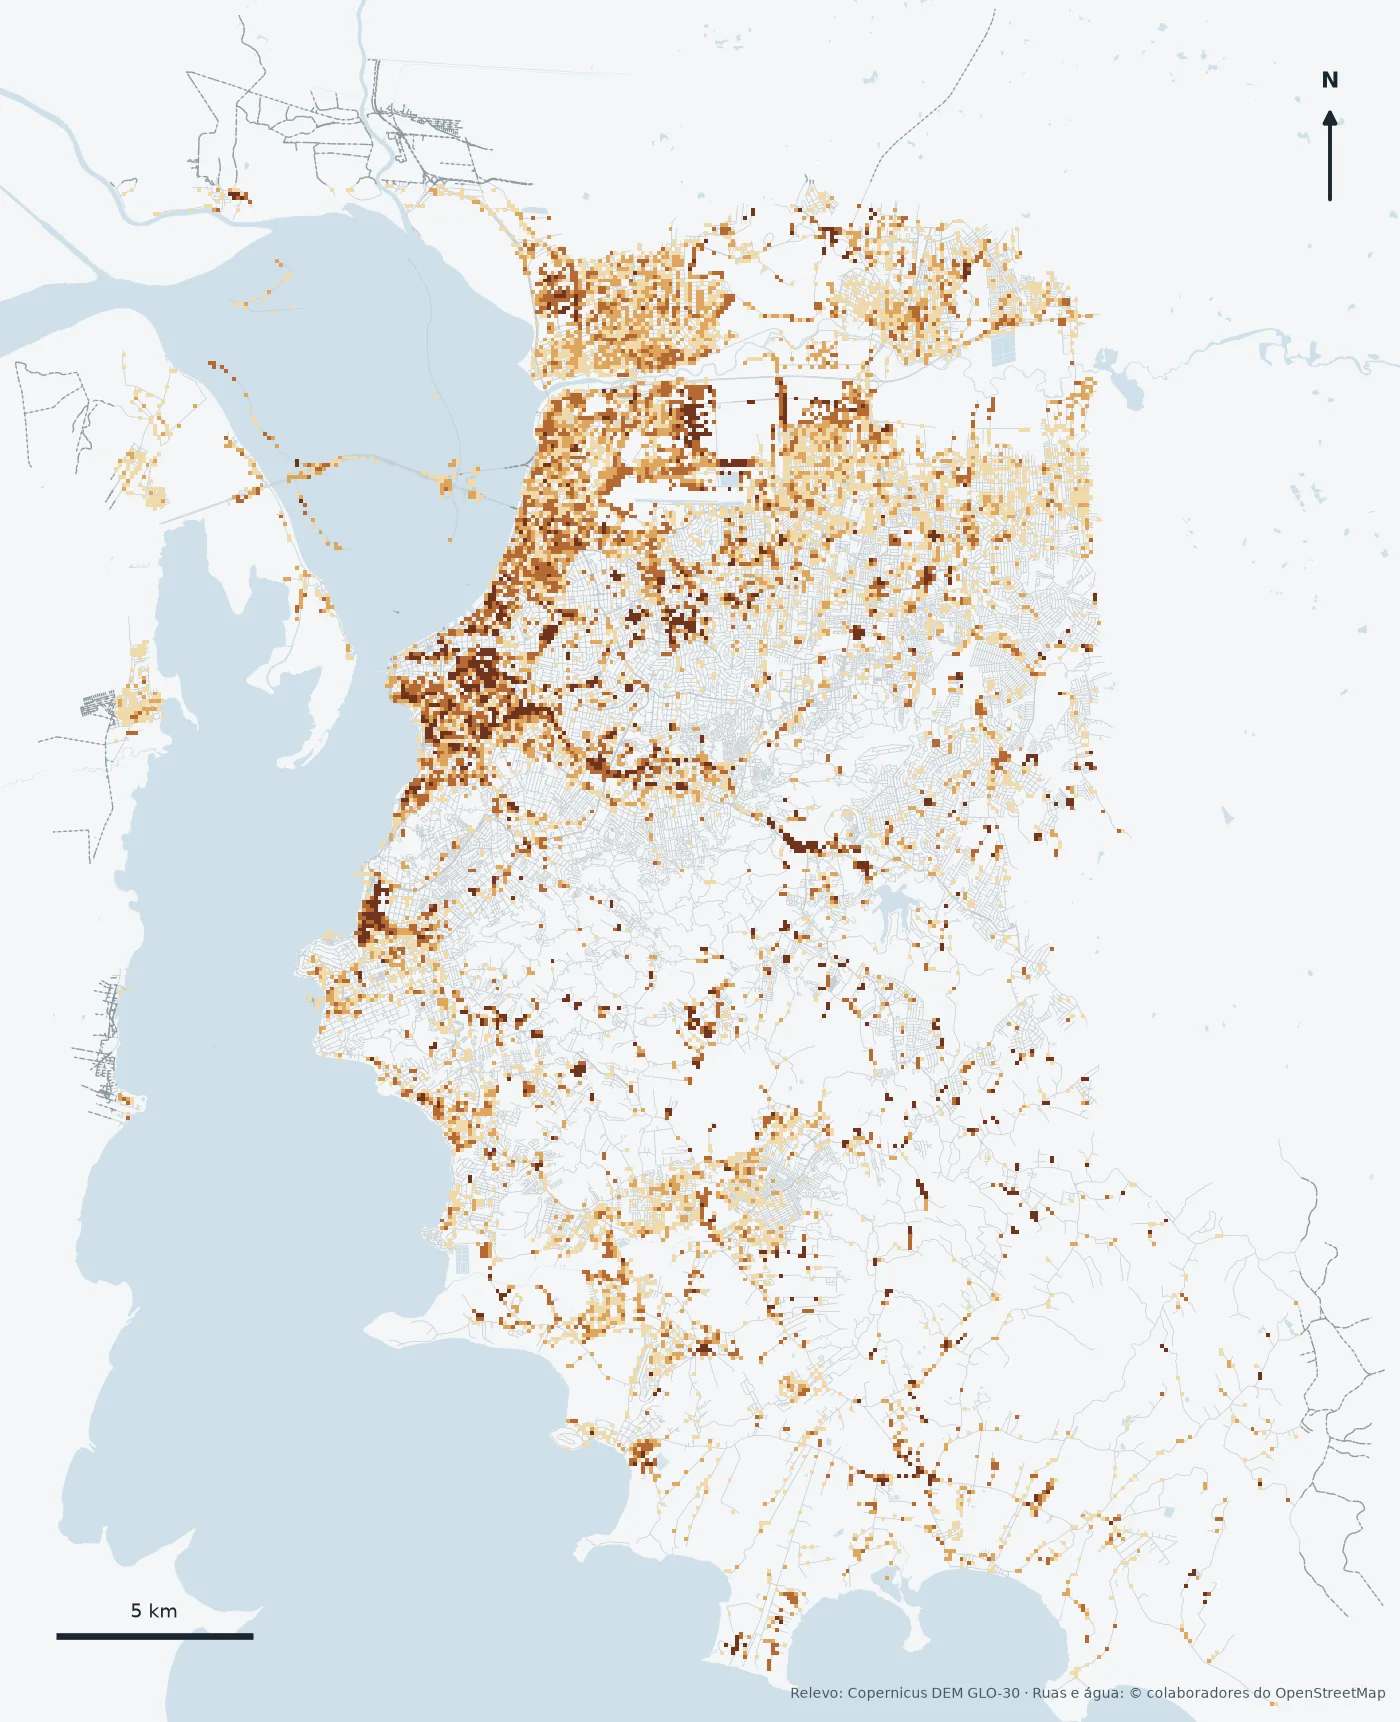
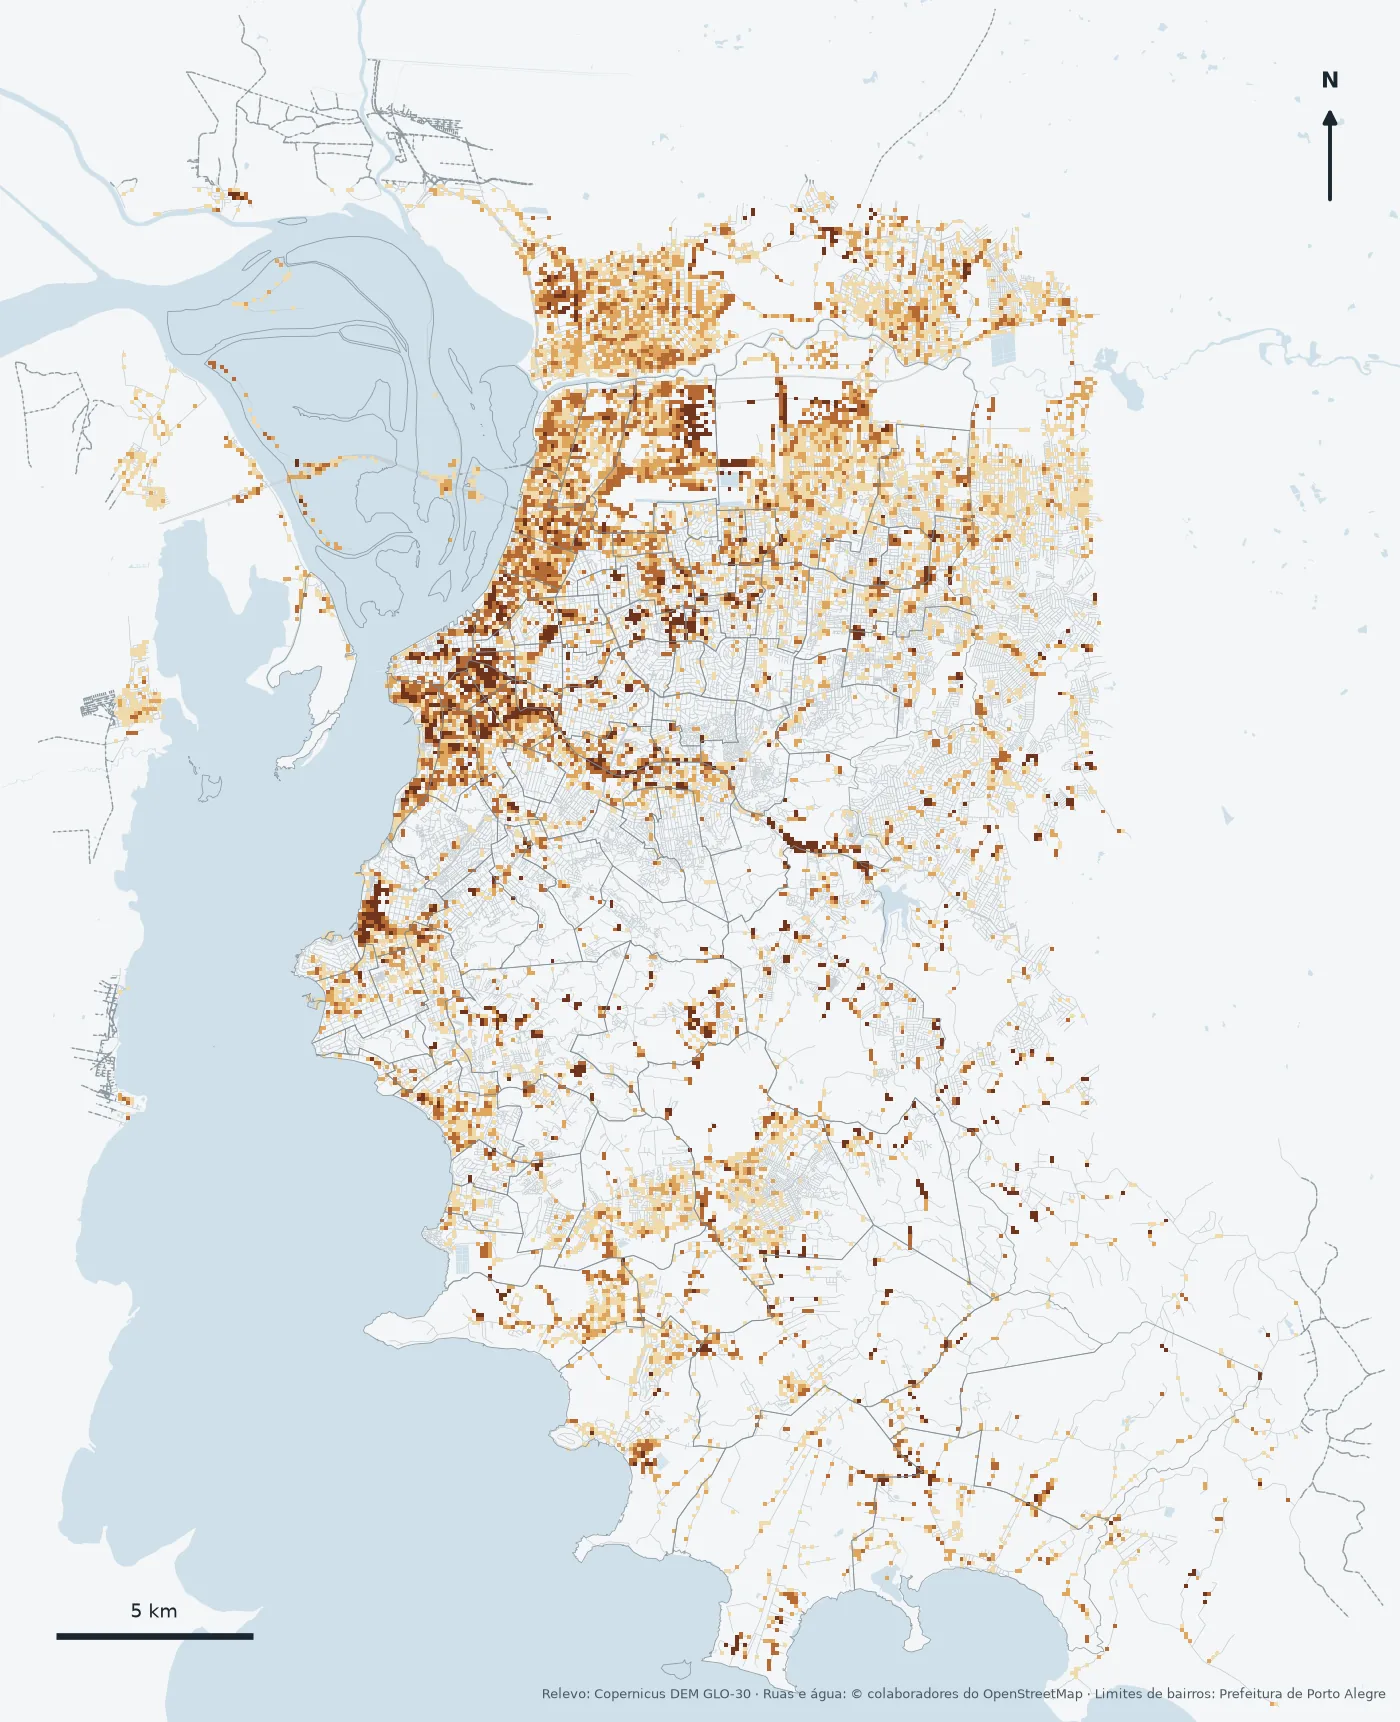
refactor(mapa-manchas): base comum para os mapas das dimensões e limites de bairros na dimensão C
Extrai a grade, o enquadramento e o desenho para tools/manchas_base.py, de modo que os quatro mapas usem a mesma grade e o mesmo enquadramento e a troca entre dimensões mantenha cada lugar no mesmo ponto. O mapa da dimensão C passa a trazer os limites dos 94 bairros como linhas de contexto; as faixas, os números e o cálculo não mudam. O teste deixa de proibir bairros, mantendo a proibição da Profill e dos registros de alagamento neste gerador.

diff --git a/tools/gerar_mapa_manchas.py b/tools/gerar_mapa_manchas.py
@@ -2,29 +2,31 @@
 
     PYTHONPATH=src .venv/bin/python tools/gerar_mapa_manchas.py
 
-Só reaproveita resultados que já existem (altura que o preenchimento de depressões soma ao relevo, por trecho de rua); nada reexecuta o motor.
-Fontes do desenho: relevo Copernicus DEM GLO-30 (via o indicador por trecho), ruas e água do OpenStreetMap. NÃO usa a Profill (nem A nem B), os limites de bairros
-da Prefeitura nem as coordenadas de alagamentos: por isso a imagem pode ser publicada com atribuição. Cada mancha é o MÁXIMO da altura entre os trechos que caem
+Dimensão C. Só reaproveita resultados que já existem (altura que o preenchimento de depressões soma ao relevo, por trecho de rua); nada reexecuta o motor.
+Fontes do desenho: relevo Copernicus DEM GLO-30 (via o indicador por trecho), ruas e água do OpenStreetMap. Não usa a Profill (as dimensões A e B têm gerador próprio, ``gerar_mapas_dimensoes.py``) nem as coordenadas de alagamentos; os limites de bairros da Prefeitura
+entram só como linhas de contexto (base_legal_dados.md). Cada mancha é o MÁXIMO da altura entre os trechos que caem
 em uma célula de 100 m; escuro = depressão mais profunda estimada, o que não é ocorrência nem risco de alagamento.
 Escreve: static/inicio/img/estudo/mapa-propensao.webp e static/data/mapa_manchas_poa.json (números e faixas da legenda, usados pela landing e conferidos por teste).
 """
 from __future__ import annotations
 
 import json
+import sys
 from pathlib import Path
 
 import numpy as np
 import pandas as pd
 
+sys.path.insert(0, str(Path(__file__).resolve().parent))
+from manchas_base import Quadro, carregar_agua, carregar_bairros, carregar_rede, desenhar  # noqa: E402
+
 RAIZ = Path(__file__).resolve().parents[1]
 ESTATICO = RAIZ / "src/flooding_mapping/app/static"
 IMG = ESTATICO / "inicio/img/estudo/mapa-propensao.webp"
 DADOS = ESTATICO / "data/mapa_manchas_poa.json"
-CELULA_M = 100
-FAIXAS_M = [0.0, 0.5, 1.0, 2.0, np.inf]                       # limites da legenda, em metros
+CELULA_M = 100                                                # igual a manchas_base.CELULA_M
+FAIXAS_M = [0.0, 0.5, 1.0, 2.0, 1e9]                          # limites da legenda, em metros
 CORES = ["#f1d9a8", "#dfa356", "#b3622a", "#6a2a12"]          # claro a escuro (tons de terra, como o indicador topográfico do mapa interativo)
-LARGURA_PX = 1400
-FUNDO, AGUA, RUA, SEM_DADO = "#f4f6f7", "#cfe0ea", "#c3cbd0", "#8c99a1"
 
 
 def estatisticas(t: pd.DataFrame) -> dict:
@@ -36,85 +38,15 @@ def estatisticas(t: pd.DataFrame) -> dict:
             "altura_maxima_m": round(float(pos.max()), 2), "trechos_acima_de_8_m": int((pos > 8).sum())}
 
 
-def desenhar(t: pd.DataFrame, rede: pd.DataFrame, agua) -> tuple[int, int]:
-    import matplotlib
-
-    matplotlib.use("Agg")
-    import matplotlib.pyplot as plt
-    from matplotlib.collections import LineCollection
-    from matplotlib.colors import BoundaryNorm, ListedColormap
-    from pyproj import Transformer
-
-    tr = Transformer.from_crs("EPSG:4326", "EPSG:31982", always_xy=True)
-    x0, y0 = tr.transform(rede.lon0.to_numpy(), rede.lat0.to_numpy())
-    x1, y1 = tr.transform(rede.lon1.to_numpy(), rede.lat1.to_numpy())
-    h = rede[["segmento_id"]].merge(t[["segmento_id", "altura_de_preenchimento_max_m"]], on="segmento_id", how="left")["altura_de_preenchimento_max_m"].to_numpy()
-    xm, ym = (x0 + x1) / 2, (y0 + y1) / 2
-    xmin, xmax, ymin, ymax = xm.min() - 400, xm.max() + 400, ym.min() - 400, ym.max() + 400
-    nx, ny = int(np.ceil((xmax - xmin) / CELULA_M)), int(np.ceil((ymax - ymin) / CELULA_M))
-    grade = np.full((ny, nx), np.nan)
-    tem = np.isfinite(h)
-    ix, iy = ((xm[tem] - xmin) // CELULA_M).astype(int), ((ym[tem] - ymin) // CELULA_M).astype(int)
-    parcial = np.zeros((ny, nx))
-    np.maximum.at(parcial, (iy, ix), h[tem])
-    existe = np.zeros((ny, nx), dtype=bool)
-    existe[iy, ix] = True
-    grade[existe] = parcial[existe]                                  # máximo por célula; célula sem trecho com dado fica vazia
-    acima = np.ma.masked_where(~(grade > 0), grade)                  # só as células com depressão ganham cor
-
-    larg_in = LARGURA_PX / 200
-    alt_in = larg_in * (ymax - ymin) / (xmax - xmin)
-    fig, ax = plt.subplots(figsize=(larg_in, alt_in), dpi=200)
-    fig.patch.set_facecolor(FUNDO)
-    ax.set_facecolor(FUNDO)
-    if agua is not None:
-        for g in agua.to_crs("EPSG:31982").geometry:
-            for poly in getattr(g, "geoms", [g]):
-                if poly.geom_type == "Polygon":
-                    px, py = poly.exterior.xy
-                    ax.fill(px, py, color=AGUA, lw=0, zorder=1)
-    ax.add_collection(LineCollection(np.stack([np.c_[x0, y0], np.c_[x1, y1]], axis=1), colors=RUA, linewidths=0.25, zorder=2))
-    sd = ~tem
-    ax.add_collection(LineCollection(np.stack([np.c_[x0[sd], y0[sd]], np.c_[x1[sd], y1[sd]]], axis=1), colors=SEM_DADO, linewidths=0.5, linestyles=(0, (2, 2)), zorder=3))
-    cmap, norm = ListedColormap(CORES), BoundaryNorm([0.0, 0.5, 1.0, 2.0, 1e9], 4)
-    ax.imshow(acima, extent=(xmin, xmax, ymin, ymax), origin="lower", cmap=cmap, norm=norm, interpolation="nearest", zorder=4, alpha=0.95)
-    ax.set_xlim(xmin, xmax)
-    ax.set_ylim(ymin, ymax)
-    ax.set_aspect("equal")
-    ax.axis("off")
-    # escala gráfica de 5 km (a projeção é métrica) e seta do norte
-    bx, by = xmin + 0.04 * (xmax - xmin), ymin + 0.05 * (ymax - ymin)
-    ax.plot([bx, bx + 5000], [by, by], color="#1b2630", lw=2.4, solid_capstyle="butt", zorder=6)
-    ax.text(bx + 2500, by + 350, "5 km", ha="center", va="bottom", fontsize=7, color="#1b2630", zorder=6)
-    nxp, nyp = xmax - 0.05 * (xmax - xmin), ymax - 0.06 * (ymax - ymin)
-    ax.annotate("", xy=(nxp, nyp), xytext=(nxp, nyp - 2600), arrowprops=dict(arrowstyle="-|>", color="#1b2630", lw=1.4), zorder=6)
-    ax.text(nxp, nyp + 250, "N", ha="center", va="bottom", fontsize=8, color="#1b2630", fontweight="bold", zorder=6)
-    ax.text(xmax - 0.01 * (xmax - xmin), ymin + 0.012 * (ymax - ymin), "Relevo: Copernicus DEM GLO-30 · Ruas e água: © colaboradores do OpenStreetMap", ha="right", va="bottom", fontsize=5.2, color="#4a5963", zorder=6)
-    fig.subplots_adjust(0, 0, 1, 1)
-    tmp = IMG.with_suffix(".tmp.png")
-    fig.savefig(tmp, dpi=200, facecolor=FUNDO)
-    plt.close(fig)
-    from PIL import Image
-
-    im = Image.open(tmp).convert("RGB")
-    im.save(IMG, "WEBP", quality=82, method=6)
-    tmp.unlink()
-    return im.size
-
-
 def main() -> None:
     t = pd.read_parquet(RAIZ / "data/processed/fase3/trechos_nivel1_propensao_topografica.parquet")
-    rede = pd.read_parquet(RAIZ / "data/processed/rede_poa.parquet", columns=["segmento_id", "lon0", "lat0", "lon1", "lat1"])
-    agua = None
-    try:
-        import geopandas as gpd
-
-        agua = gpd.read_parquet(RAIZ / "data/interim/water.parquet")
-    except Exception as e:                                           # a água é só contexto: sem ela a imagem sai sem o fundo azul
-        print("água indisponível:", type(e).__name__)
-    w, h = desenhar(t, rede, agua)
+    rede = carregar_rede()
+    q = Quadro(rede)
+    h = q.valores_por_trecho(t, "altura_de_preenchimento_max_m")
+    w, h_px = desenhar(q, q.grade_maximo(h), FAIXAS_M, CORES, ~np.isfinite(h), carregar_agua(), carregar_bairros(), IMG, "Relevo: Copernicus DEM GLO-30")
+    h = h_px
     r = {"variavel": "altura que o preenchimento de depressões soma ao relevo (propensão topográfica à retenção, dimensão C), por trecho",
-         "fontes": "Copernicus DEM GLO-30 (relevo) e OpenStreetMap (ruas e água). Não usa a Profill, os limites de bairros da Prefeitura nem registros de alagamento",
+         "fontes": "Copernicus DEM GLO-30 (relevo), OpenStreetMap (ruas e água) e limites de bairros da Prefeitura de Porto Alegre (linhas de contexto). Esta dimensão não usa a Profill nem registros de alagamento",
          "imagem": {"arquivo": "img/estudo/mapa-propensao.webp", "largura_px": w, "altura_px": h, "bytes": IMG.stat().st_size, "celula_m": CELULA_M, "agregacao": "máximo entre os trechos de cada célula"},
          "faixas_m": [{"de": 0.0, "ate": 0.5, "cor": CORES[0]}, {"de": 0.5, "ate": 1.0, "cor": CORES[1]}, {"de": 1.0, "ate": 2.0, "cor": CORES[2]}, {"de": 2.0, "ate": None, "cor": CORES[3]}],
          **estatisticas(t)}

diff --git a/tools/manchas_base.py b/tools/manchas_base.py
@@ -1,0 +1,136 @@
+"""Base comum dos mapas de manchas da landing (dimensões A, B, C e D): grade de 100 m, desenho e gravação em WebP.
+
+Todos os mapas usam a MESMA grade, o mesmo enquadramento (EPSG:31982), as mesmas ruas e água do OpenStreetMap e, por cima das manchas, os limites dos 94 bairros,
+para que alternar entre as dimensões mantenha cada lugar no mesmo ponto da imagem. Cada dimensão fornece só os valores por célula, as faixas da legenda e as cores.
+A mancha é sempre o valor MÁXIMO (ou, na drenagem, a soma) do que cai na célula, sem suavização, para que a legenda continue verdadeira.
+"""
+from __future__ import annotations
+
+from pathlib import Path
+
+import numpy as np
+import pandas as pd
+
+RAIZ = Path(__file__).resolve().parents[1]
+ESTATICO = RAIZ / "src/flooding_mapping/app/static"
+IMG_DIR = ESTATICO / "inicio/img/estudo"
+CELULA_M = 100
+LARGURA_PX = 1400
+FUNDO, AGUA, RUA, SEM_DADO, LIMITE = "#f4f6f7", "#cfe0ea", "#c3cbd0", "#8c99a1", "#7d8a93"
+FONTE_OSM = "Ruas e água: © colaboradores do OpenStreetMap · Limites de bairros: Prefeitura de Porto Alegre"
+
+
+def carregar_rede() -> pd.DataFrame:
+    return pd.read_parquet(RAIZ / "data/processed/rede_poa.parquet", columns=["segmento_id", "lon0", "lat0", "lon1", "lat1"])
+
+
+def carregar_agua():
+    try:
+        import geopandas as gpd
+
+        return gpd.read_parquet(RAIZ / "data/interim/water.parquet")
+    except Exception as e:                                           # a água é só contexto: sem ela a imagem sai sem o fundo azul
+        print("água indisponível:", type(e).__name__)
+        return None
+
+
+def carregar_bairros():
+    """Limites dos bairros em EPSG:31982: lista de (nome, geometria)."""
+    import json
+
+    import geopandas as gpd
+    from shapely.geometry import shape
+
+    t = json.loads((RAIZ / "data/processed/territorio_poa.json").read_text(encoding="utf-8"))
+    nomes = [b["nome"] for b in t["bairros"]]
+    g = gpd.GeoSeries([shape(b["geom"]) for b in t["bairros"]], crs="EPSG:4326").to_crs("EPSG:31982")
+    return list(zip(nomes, g))
+
+
+class Quadro:
+    """Projeção das ruas e grade comum a todos os mapas."""
+
+    def __init__(self, rede: pd.DataFrame):
+        from pyproj import Transformer
+
+        tr = Transformer.from_crs("EPSG:4326", "EPSG:31982", always_xy=True)
+        self.ids = rede["segmento_id"].to_numpy()
+        self.x0, self.y0 = tr.transform(rede.lon0.to_numpy(), rede.lat0.to_numpy())
+        self.x1, self.y1 = tr.transform(rede.lon1.to_numpy(), rede.lat1.to_numpy())
+        self.xm, self.ym = (self.x0 + self.x1) / 2, (self.y0 + self.y1) / 2
+        self.xmin, self.xmax = self.xm.min() - 400, self.xm.max() + 400
+        self.ymin, self.ymax = self.ym.min() - 400, self.ym.max() + 400
+        self.nx = int(np.ceil((self.xmax - self.xmin) / CELULA_M))
+        self.ny = int(np.ceil((self.ymax - self.ymin) / CELULA_M))
+
+    def celula(self, x, y):
+        return ((y - self.ymin) // CELULA_M).astype(int), ((x - self.xmin) // CELULA_M).astype(int)
+
+    def valores_por_trecho(self, df: pd.DataFrame, coluna: str) -> np.ndarray:
+        return pd.DataFrame({"segmento_id": self.ids}).merge(df[["segmento_id", coluna]], on="segmento_id", how="left")[coluna].to_numpy(dtype=float)
+
+    def grade_maximo(self, h: np.ndarray) -> np.ndarray:
+        """Máximo por célula entre os trechos com dado; célula sem trecho com dado fica vazia (NaN)."""
+        tem = np.isfinite(h)
+        iy, ix = self.celula(self.xm[tem], self.ym[tem])
+        parcial, existe = np.zeros((self.ny, self.nx)), np.zeros((self.ny, self.nx), dtype=bool)
+        np.maximum.at(parcial, (iy, ix), h[tem])
+        existe[iy, ix] = True
+        grade = np.full((self.ny, self.nx), np.nan)
+        grade[existe] = parcial[existe]
+        return grade
+
+
+def desenhar(q: Quadro, grade: np.ndarray, bordas: list[float], cores: list[str], sem_dado: np.ndarray | None, agua, bairros, saida: Path, fonte_dado: str) -> tuple[int, int]:
+    """Grava ``saida`` (WebP) com a grade colorida por faixas (``bordas`` com len(cores)+1 limites; só valores > 0 recebem cor)."""
+    import matplotlib
+
+    matplotlib.use("Agg")
+    import matplotlib.pyplot as plt
+    from matplotlib.collections import LineCollection
+    from matplotlib.colors import BoundaryNorm, ListedColormap
+    from PIL import Image
+
+    larg_in = LARGURA_PX / 200
+    fig, ax = plt.subplots(figsize=(larg_in, larg_in * (q.ymax - q.ymin) / (q.xmax - q.xmin)), dpi=200)
+    fig.patch.set_facecolor(FUNDO)
+    ax.set_facecolor(FUNDO)
+    if agua is not None:
+        for g in agua.to_crs("EPSG:31982").geometry:
+            for poly in getattr(g, "geoms", [g]):
+                if poly.geom_type == "Polygon":
+                    px, py = poly.exterior.xy
+                    ax.fill(px, py, color=AGUA, lw=0, zorder=1)
+    seg = lambda m: np.stack([np.c_[q.x0[m], q.y0[m]], np.c_[q.x1[m], q.y1[m]]], axis=1)
+    todos = np.ones(len(q.x0), dtype=bool)
+    ax.add_collection(LineCollection(seg(todos), colors=RUA, linewidths=0.25, zorder=2))
+    if sem_dado is not None and sem_dado.any():
+        ax.add_collection(LineCollection(seg(sem_dado), colors=SEM_DADO, linewidths=0.5, linestyles=(0, (2, 2)), zorder=3))
+    acima = np.ma.masked_where(~(grade > 0), grade)
+    ax.imshow(acima, extent=(q.xmin, q.xmax, q.ymin, q.ymax), origin="lower", cmap=ListedColormap(cores), norm=BoundaryNorm([*bordas[:-1], 1e12], len(cores)), interpolation="nearest", zorder=4, alpha=0.95)
+    if bairros:
+        linhas = []
+        for _, g in bairros:
+            for poly in getattr(g, "geoms", [g]):
+                linhas.append(np.c_[poly.exterior.xy])
+        ax.add_collection(LineCollection(linhas, colors=LIMITE, linewidths=0.3, zorder=5, alpha=0.8))
+    ax.set_xlim(q.xmin, q.xmax)
+    ax.set_ylim(q.ymin, q.ymax)
+    ax.set_aspect("equal")
+    ax.axis("off")
+    dx, dy = q.xmax - q.xmin, q.ymax - q.ymin
+    bx, by = q.xmin + 0.04 * dx, q.ymin + 0.05 * dy
+    ax.plot([bx, bx + 5000], [by, by], color="#1b2630", lw=2.4, solid_capstyle="butt", zorder=6)
+    ax.text(bx + 2500, by + 350, "5 km", ha="center", va="bottom", fontsize=7, color="#1b2630", zorder=6)
+    nxp, nyp = q.xmax - 0.05 * dx, q.ymax - 0.06 * dy
+    ax.annotate("", xy=(nxp, nyp), xytext=(nxp, nyp - 2600), arrowprops=dict(arrowstyle="-|>", color="#1b2630", lw=1.4), zorder=6)
+    ax.text(nxp, nyp + 250, "N", ha="center", va="bottom", fontsize=8, color="#1b2630", fontweight="bold", zorder=6)
+    ax.text(q.xmax - 0.01 * dx, q.ymin + 0.012 * dy, f"{fonte_dado} · {FONTE_OSM}", ha="right", va="bottom", fontsize=4.6, color="#4a5963", zorder=6)
+    fig.subplots_adjust(0, 0, 1, 1)
+    tmp = saida.with_suffix(".tmp.png")
+    fig.savefig(tmp, dpi=200, facecolor=FUNDO)
+    plt.close(fig)
+    im = Image.open(tmp).convert("RGB")
+    im.save(saida, "WEBP", quality=82, method=6)
+    tmp.unlink()
+    return im.size

diff --git a/tests/test_mapa_manchas.py b/tests/test_mapa_manchas.py
@@ -47,10 +47,10 @@ def test_the_image_is_a_light_webp_with_the_recorded_size_and_a_legend_in_metres
     assert lum == sorted(lum, reverse=True)                                                          # mais escuro = faixa mais profunda
 
 
-def test_the_generator_uses_neither_the_profill_nor_the_district_boundaries_nor_the_flood_records():
+def test_the_topographic_generator_keeps_to_dimension_c_and_does_not_use_the_profill_or_flood_records():
     fonte = (RAIZ / "tools/gerar_mapa_manchas.py").read_text(encoding="utf-8")
     codigo = re.sub(r'""".*?"""', "", fonte, count=1, flags=re.S)
     codigo = "\n".join(l for l in codigo.splitlines() if '"fontes":' not in l)                          # a frase que declara o que NÃO é usado
-    for proibido in ("uso_solo", "profill", "territorio_poa", "bairros", "alagamentos", "events.csv", "contrib_aeq", "acum_aeq"):
+    for proibido in ("uso_solo", "profill", "alagamentos", "events.csv", "contrib_aeq", "acum_aeq", "nivel2"):
         assert proibido not in codigo.lower(), proibido
-    assert "Copernicus" in J["fontes"] and "OpenStreetMap" in J["fontes"] and "Não usa a Profill" in J["fontes"]
+    assert "Copernicus" in J["fontes"] and "OpenStreetMap" in J["fontes"] and "não usa a Profill" in J["fontes"]
